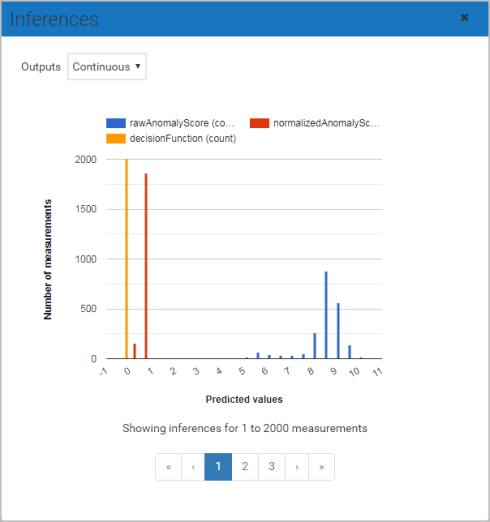
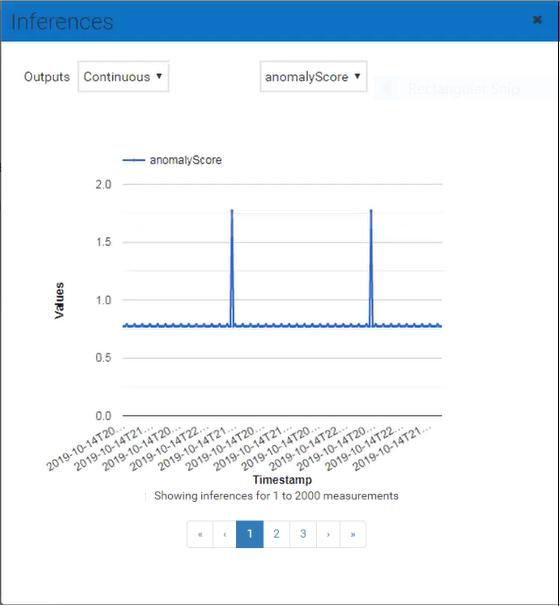
changed chart

diff --git a/content/predictive-analytics/web-app-bundle/processing-data.md b/content/predictive-analytics/web-app-bundle/processing-data.md
@@ -112,6 +112,6 @@ To view the inferences generated by any execution of a job, click on the details
 ![Execution Inferences Continuous](/guides/images/zementis/zementis-execution-inferences-continuous.png)
 ![Execution Inferences Categorical](/guides/images/zementis/zementis-execution-inferences-categorical.png)
 
-The **Inferences** window shows two different types of charts, a histogram plotting all the continuous outputs of the model and a pie-chart plotting the model’s categorical outputs. 
+The **Inferences** window shows two different types of charts, a line-chart plotting the continuous outputs of the model and a pie-chart plotting the model’s categorical outputs. 
 
 The inferences are shown in a paginated manner, displaying 2000 inferences per page. For executions containing device groups, it will also allow you to shuffle between different devices which were part of that execution.
